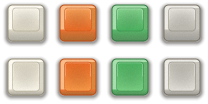
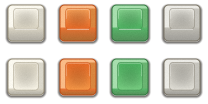
Faceted knobs with metal disc (S1-65 style), taller keycaps, tighter shadows, label offsets
Claude-Session: https://claude.ai/code/session_01U7SxQaxHMvfuTayBcgx1EU

diff --git a/tools/gen_assets.py b/tools/gen_assets.py
@@ -67,7 +67,7 @@ KBOX = 88            # клетка спрайта ручки: центр в (44
 
 
 def knob_body(R, active):
-    """Светлая рифлёная ручка (алюминий/кремовый пластик, как на приборах 70-х), тёмная юбка."""
+    """Ручка как на С1-65: многогранный корпус (10 граней, у каждой свой тон), металлический диск сверху, юбка из металла."""
     S = KBOX
     img = new(S, S)
     x, y = grid(S, S)
@@ -76,36 +76,44 @@ def knob_body(R, active):
     r = np.hypot(x, y)
     th = np.arctan2(y, x)
     C = lambda c: np.full(img.shape[:2] + (3,), c, np.float32)
-    d = np.hypot(x, y - 3.0)                                                       # тень на панели
-    over(img, C((60, 42, 24)), 0.38 * np.clip((R + 4.8 - d) / 7.0, 0, 1) ** 1.6)
+    d = np.hypot(x, y - 2.2)                                                       # тень: короткая и плотная
+    over(img, C((40, 28, 16)), 0.42 * np.clip((R + 4.4 - d) / 3.2, 0, 1) ** 1.3)
     light = 0.5 + 0.5 * np.cos(th + 2.356)                                         # свет сверху-слева
+    # юбка (металлическое кольцо у основания)
     if active:
-        skirt = lerp((150, 54, 14), (252, 168, 84), light)
+        skirt = lerp((170, 62, 16), (255, 176, 92), light)
     else:
-        skirt = lerp((46, 44, 40), (150, 146, 134), light ** 1.4)
+        skirt = lerp((110, 112, 114), (236, 238, 240), light ** 1.2)
     over(img, skirt, cover(r - (R + 3.4)))
-    over(img, C((30, 28, 24)), 0.85 * cover(np.abs(r - (R + 0.7)) - 0.5))
-    # рифлёная боковая стенка: глубокие рёбра, свет по окружности
-    Rb = R + 0.2
-    rt = Rb - 4.6                                                                  # край верхней площадки
-    n_rib = int(R * 1.5) // 2 * 2 + 12
-    ph = 0.5 + 0.5 * np.cos(th * n_rib)
-    base = lerp((120, 116, 104), (246, 243, 232), light ** 0.9)
-    wall = base * (0.70 + 0.30 * ph)[..., None] - 26 * (1 - ph)[..., None] * (1 - light)[..., None]
-    over(img, wall, cover(r - Rb))
-    # верхняя площадка: светлый алюминий, радиальный градиент + токарные кольца
-    u, v = (x + 0.28 * R) / R, (y + 0.34 * R) / R
-    t = np.clip(np.hypot(u, v) / 1.35, 0, 1)
-    top = lerp((255, 253, 244), (176, 170, 154), t ** 1.1)
-    top = top + 4.0 * np.sin(r * 8.0)[..., None] * smooth(0.15 * R, 0.5 * R, r)[..., None]
-    spin = np.maximum(0, np.cos(2 * (th + 0.75))) ** 6                             # угловой «шлифованный» блик
-    top = top + 14 * spin[..., None] * smooth(0.1 * R, 0.55 * R, r)[..., None]
-    over(img, top, cover(r - rt))
-    over(img, C((96, 90, 74)), 0.75 * cover(np.abs(r - rt) - 0.5))                 # кромка площадки
-    over(img, C((255, 255, 255)), 0.55 * cover(np.abs(r - rt + 0.9) - 0.4) * (light > 0.45))
-    over(img, C((120, 112, 94)), 0.35 * cover(np.abs(r - 0.5 * R) - 0.5))          # центральная проточка
-    over(img, C((255, 255, 255)), 0.5 * cover(np.abs(r - 0.5 * R - 0.9) - 0.4) * (light > 0.4))
-    over(img, C((255, 255, 255)), 0.28 * np.clip(1 - np.hypot(x + 0.34 * R, y + 0.42 * R) / (0.42 * R), 0, 1) ** 1.5)
+    over(img, C((50, 50, 52)), 0.8 * cover(np.abs(r - (R + 3.4)) - 0.4))
+    over(img, C((40, 38, 34)), 0.9 * cover(np.abs(r - (R + 1.2)) - 0.4))           # щель между юбкой и корпусом
+    # многогранный корпус
+    N = 10
+    sec = 2 * np.pi / N
+    off = 0.3
+    ang = np.mod(th - off, 2 * np.pi)
+    k = np.floor(ang / sec)
+    loc = ang - k * sec - sec / 2
+    Rp = R + 1.0
+    dpoly = r * np.cos(loc) - Rp * np.cos(sec / 2)
+    face_ang = off + (k + 0.5) * sec
+    fl = 0.5 + 0.5 * np.cos(face_ang + 2.356)                                      # яркость грани: плоская на всю грань
+    plastic = lerp((128, 126, 116), (232, 230, 216), fl ** 1.1)
+    over(img, plastic, cover(dpoly))
+    # рёбра между гранями: тонкие тёмные и светлые линии
+    ed = np.abs(loc) > sec / 2 - 0.035
+    over(img, C((70, 68, 60)), 0.55 * ed * (r > 0.8 * R) * cover(dpoly + 0.2))
+    over(img, C((255, 255, 255)), 0.22 * (np.abs(np.abs(loc) - (sec / 2 - 0.075)) < 0.02) * (r > 0.8 * R) * cover(dpoly + 0.2) * (fl > 0.5))
+    # верхняя площадка пластика (фаска от граней) и диск из шлифованного металла
+    ri = 0.80 * R
+    over(img, lerp((214, 212, 200), (170, 168, 156), np.clip((r / ri), 0, 1) ** 2), cover(r - ri))
+    over(img, C((82, 80, 72)), 0.7 * cover(np.abs(r - ri) - 0.45))
+    rm = 0.66 * R
+    sheen = np.maximum(0, np.cos(2 * (th + 0.8))) ** 3
+    metal = lerp((176, 178, 180), (236, 238, 240), sheen) + 5 * np.sin(th * 48)[..., None]
+    over(img, metal, cover(r - rm))
+    over(img, C((70, 70, 72)), 0.85 * cover(np.abs(r - rm) - 0.45))
+    over(img, C((255, 255, 255)), 0.55 * cover(np.abs(r - rm + 0.9) - 0.35) * (light > 0.5))
     return down(img)
 
 
@@ -116,10 +124,10 @@ def knob_pointer(R):
     x, y = grid(S, S)
     x -= S / 2
     y -= S / 2
-    w, y0, y1 = 3.4, -0.90 * R, -0.18 * R
-    sdr = lambda dx, dy: rrect_sd(x - dx, y - dy, -w / 2, y0, w, y1 - y0, w / 2)
-    over(img, np.full(img.shape[:2] + (3,), (255, 255, 255), np.float32), 0.6 * cover(sdr(0.6, 0.9)))
-    over(img, lerp((92, 72, 56), (50, 38, 30), (x + w / 2) / w), cover(sdr(0, 0)))
+    w, y0, y1 = 2.6, -0.62 * R, -0.06 * R
+    sdr = lambda dx, dy: rrect_sd(x - dx, y - dy, -w / 2, y0, w, y1 - y0, 0.6)
+    over(img, np.full(img.shape[:2] + (3,), (255, 255, 255), np.float32), 0.7 * cover(sdr(0.5, 0.7)))
+    over(img, np.full(img.shape[:2] + (3,), (34, 30, 28), np.float32), cover(sdr(0, 0)))
     return down(img)
 
 
@@ -151,13 +159,13 @@ def key_sprite(style, pressed):
     off = 2.0 if pressed else 0.0
     bx, by, bw, bh = 8.0, 5.0 + off, 36.0, 36.0
     # гнездо: тёмная тень вокруг основания
-    sds = rrect_sd(x, y, bx - 1.5, by - 0.5 + 1.5, bw + 3.0, bh + 1.0, 5.5)
-    over(img, C((18, 14, 10)), 0.40 * np.clip(1 - sds / 4.5, 0, 1) ** 1.7 * (sds > -1.5))
+    sds = rrect_sd(x, y, bx - 1.0, by - 0.5 + 1.2, bw + 2.0, bh + 1.0, 5.0)
+    over(img, C((18, 14, 10)), 0.55 * np.clip(1 - sds / 2.2, 0, 1) ** 1.2 * (sds > -1.0))
     # основание кейкапа (внешний контур)
     sdo = rrect_sd(x, y, bx, by, bw, bh, 4.5)
     # верхняя грань: уже основания; снизу — высокая передняя стенка
-    li, ri, ti = 4.5, 4.5, 3.0
-    fw = 4.0 if pressed else 10.0
+    li, ri, ti = 5.5, 5.5, 3.5
+    fw = 5.0 if pressed else 12.0
     tx0, ty0, tw, th_ = bx + li, by + ti, bw - li - ri, bh - ti - fw
     sdt = rrect_sd(x, y, tx0, ty0, tw, th_, 3.4)
     # стенки: ориентация определяется положением относительно верхней грани
@@ -177,11 +185,13 @@ def key_sprite(style, pressed):
     cx_ = tx0 + tw / 2
     nxx = np.clip(np.abs(x - cx_) / (tw / 2), 0, 1)
     dish = np.clip(1 - np.abs(g * 2 - 1) ** 2.0, 0, 1) * (1 - nxx ** 2)
-    face = face * (1 - 0.08 * dish)[..., None]
+    face = face * (1 - 0.13 * dish)[..., None]
     over(img, face, cover(sdt))
     over(img, C(edge), 0.45 * cover(np.abs(sdt) - 0.45))           # кромка верхней грани
     over(img, C((255, 255, 255)), 0.30 * cover(np.abs(sdt + 0.9) - 0.4) * (g < 0.5))   # светлая фаска сверху
     over(img, C(edge), cover(np.abs(sdo) - 0.5))
+    if not pressed:                                                # резкая светлая грань на стыке верха и передней стенки
+        over(img, C((255, 255, 255)), 0.55 * cover(rrect_sd(x, y, tx0 + 1.5, ty0 + th_ - 0.2, tw - 3, 1.0, 0.4)))
     out = down(img)
     rng = np.random.default_rng(7 + style * 3 + pressed)
     n = rng.normal(0, 1.3, out.shape[:2])[..., None]

diff --git a/main.c b/main.c
@@ -2128,7 +2128,7 @@ static void cv_icon(Canvas *c, int kind, float cx, float cy, uint32_t col) {
 static void cv_key(Canvas *c, int x, int y, int w, int h, int style, int pressed) {
     if (g_img_keys.px && style != 2) {
         int col = style == 1 ? 1 : (style == 3 ? 2 : (style == 4 ? 3 : 0));
-        cv_blit9(c, &g_img_keys, col * 52, pressed ? 52 : 0, 52, 20, x - 8, y - 5, w + 16, h + 16);
+        cv_blit9(c, &g_img_keys, col * 52, pressed ? 52 : 0, 52, 22, x - 8, y - 5, w + 16, h + 16);
         return;
     }
     uint32_t top, bot, edge, side;
@@ -3203,7 +3203,7 @@ static void ui_draw(const UiState *u) {
             int x, y, w, h;
             btn_geom(id, &x, &y, &w, &h);
             int st = edit_style(u, id), pr = (u->btn_down == id);
-            text_c(x + w / 2, y + h - 11 + (pr ? 2 : 0), st ? K_CREAM_HI : ((id == B_UNDO && !u->can_undo) ? K_BROWN_LO : K_BROWN), 0.68f, names[id - B_CROP]);
+            text_c(x + w / 2, y + h - 18 + (pr ? 2 : 0), st ? K_CREAM_HI : ((id == B_UNDO && !u->can_undo) ? K_BROWN_LO : K_BROWN), 0.68f, names[id - B_CROP]);
         }
         text(332, 500, K_BROWN, 0.58f, "SELECT help     START save WAV     TRIANGLE x2 reset A-B");
         text(332, 514, K_BROWN, 0.58f, "hold L = glitch (rear panel: up / down = rate)     drag a knob: up / down");
@@ -3212,7 +3212,7 @@ static void ui_draw(const UiState *u) {
         for (int id = B_ADV0; id <= B_ADV3; id++) {
             int x, y, w, h;
             btn_geom(id, &x, &y, &w, &h);
-            text_c(x + w / 2, y + h - 11 + ((u->btn_down == id) ? 2 : 0), K_BROWN, 0.66f, an[id - B_ADV0]);
+            text_c(x + w / 2, y + h - 18 + ((u->btn_down == id) ? 2 : 0), K_BROWN, 0.66f, an[id - B_ADV0]);
         }
         text(332, 500, K_BROWN, 0.58f, "all four work on the region A-B chosen in EDIT");
         text(332, 514, K_BROWN, 0.58f, "+ SILENCE inserts a gap of the same width right after B     UNDO is in EDIT");
@@ -3230,7 +3230,7 @@ static void ui_draw(const UiState *u) {
         text(796, 466, u->bpm_t != u->bpm_b ? K_ORANGE_LO : K_BROWN, 0.66f, "BPM");
         if (u->bpm > 0) { snprintf(buf, sizeof(buf), "orig %d", u->bpm_b); text(850, 466, K_BROWN_LO, 0.55f, buf); }
     } else if (u->page == 2) {
-        text_c(885, 471 + ((u->btn_down == B_GR_ON) ? 2 : 0), u->gr_on ? K_CREAM_HI : K_BROWN, 0.68f, u->gr_on ? "GRAIN ON" : "GRAIN OFF");
+        text_c(885, 461 + ((u->btn_down == B_GR_ON) ? 2 : 0), u->gr_on ? K_CREAM_HI : K_BROWN, 0.68f, u->gr_on ? "GRAIN ON" : "GRAIN OFF");
         text_c(885, 504, K_BROWN, 0.55f, "same pitch and speed,");
         text_c(885, 517, K_BROWN, 0.55f, "fade in / fade out");
     } else {
@@ -3247,7 +3247,7 @@ static void ui_draw(const UiState *u) {
                 int x, y, w, h;
                 btn_geom(B_FT0 + i, &x, &y, &w, &h);
                 int sel = (u->flt_type == i);
-                text_c(x + w / 2, y + h - 8 + (sel ? 2 : 0), sel ? K_CREAM_HI : K_BROWN, 0.62f, ft[i]);
+                text_c(x + w / 2, y + h - 15 + (sel ? 2 : 0), sel ? K_CREAM_HI : K_BROWN, 0.62f, ft[i]);
             }
             static const char *fl[3] = { "100 Hz", "1 kHz", "4 kHz" };
             static const float ff[3] = { 100.0f, 1000.0f, 4000.0f };
